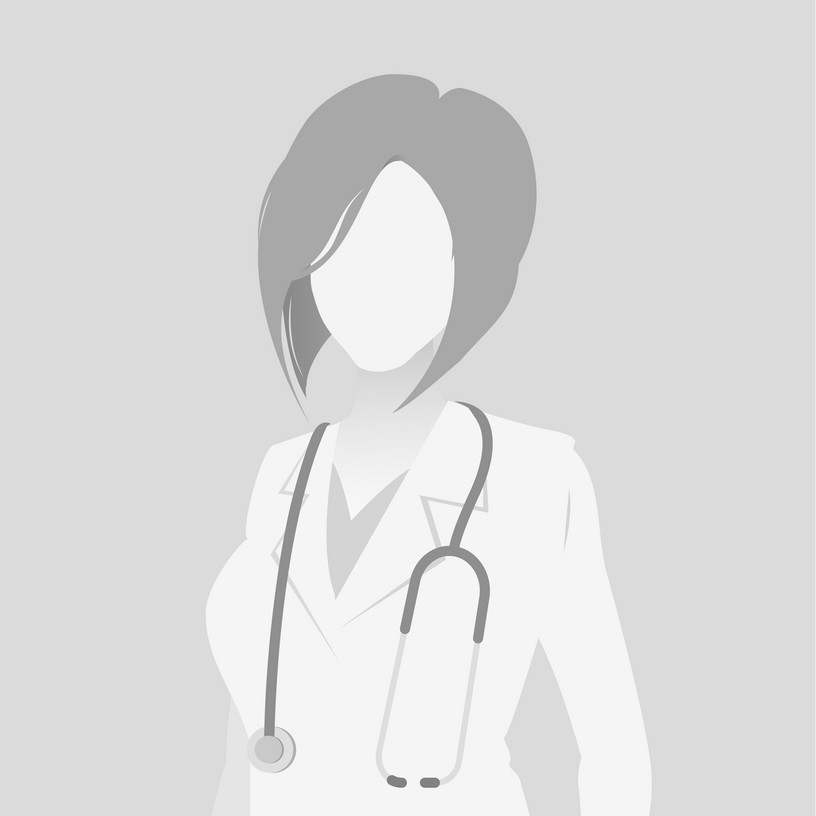
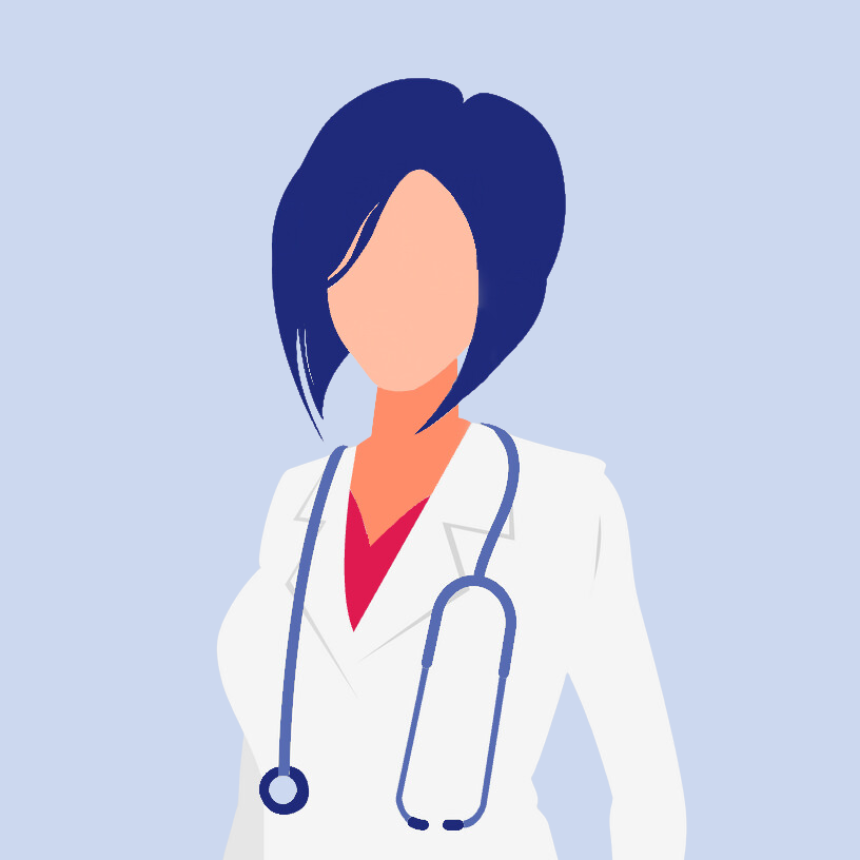
add default profile picture for female

Changed region(s): [[0.3064, 0.0919, 0.674, 0.9498], [0.4596, 0.7966, 0.5515, 0.9804]]

diff --git a/lib/ui/page/chat_page.dart/detail_dokter_page/detail_dokter_page.dart b/lib/ui/page/chat_page.dart/detail_dokter_page/detail_dokter_page.dart
@@ -78,11 +78,13 @@ class _DetailDokterPageState extends ConsumerState<DetailDokterPage> {
                   color: const Color(0xFFCCD8EF),
                   borderRadius: BorderRadius.circular(10),
                   image: DecorationImage(
-                    image: widget.dokter.gambar == null ||
-                            widget.dokter.gambar!.isEmpty
-                        ? const AssetImage(
-                            'assets/default_profile_doctor_male_transparent.png')
-                        : NetworkImage(widget.dokter.gambar!) as ImageProvider,
+                    image: widget.dokter.gambar == null || widget.dokter.gambar!.isEmpty
+                            ? widget.dokter.jenisKelamin == 'Laki-laki'
+                                ? const AssetImage(
+                                    'assets/default_profile_doctor_male_transparent.png')
+                                : const AssetImage(
+                                    'assets/default_profile_doctor_female_transparent.png')
+                            : NetworkImage(widget.dokter.gambar!) as ImageProvider,
                     fit: BoxFit.contain,
                   ),
                 ),

diff --git a/lib/ui/page/chat_page.dart/dokter_card.dart b/lib/ui/page/chat_page.dart/dokter_card.dart
@@ -46,8 +46,11 @@ class DokterCard extends ConsumerWidget {
                     border: Border.all(color: Colors.grey, width: 1),
                     image: DecorationImage(
                         image: dokter.gambar == null || dokter.gambar!.isEmpty
-                            ? const AssetImage(
-                                'assets/default_profile_doctor_male.png')
+                            ? dokter.jenisKelamin == 'Laki-laki'
+                                ? const AssetImage(
+                                    'assets/default_profile_doctor_male.png')
+                                : const AssetImage(
+                                    'assets/default_profile_doctor_female.png')
                             : NetworkImage(dokter.gambar!) as ImageProvider,
                         fit: BoxFit.cover)),
               ),

diff --git a/lib/ui/page/chat_page.dart/category_page/category_page.dart b/lib/ui/page/chat_page.dart/category_page/category_page.dart
@@ -233,7 +233,7 @@ class _CategoryPageState extends ConsumerState<CategoryPage> {
         items: items.map<DropdownMenuItem<String>>((String value) {
           return DropdownMenuItem<String>(
             value: value,
-            child: Text(value, style: const TextStyle(fontSize: 14)),
+            child: Text(value, style: const TextStyle(fontSize: 12)),
           );
         }).toList(),
         underline: const SizedBox(),
